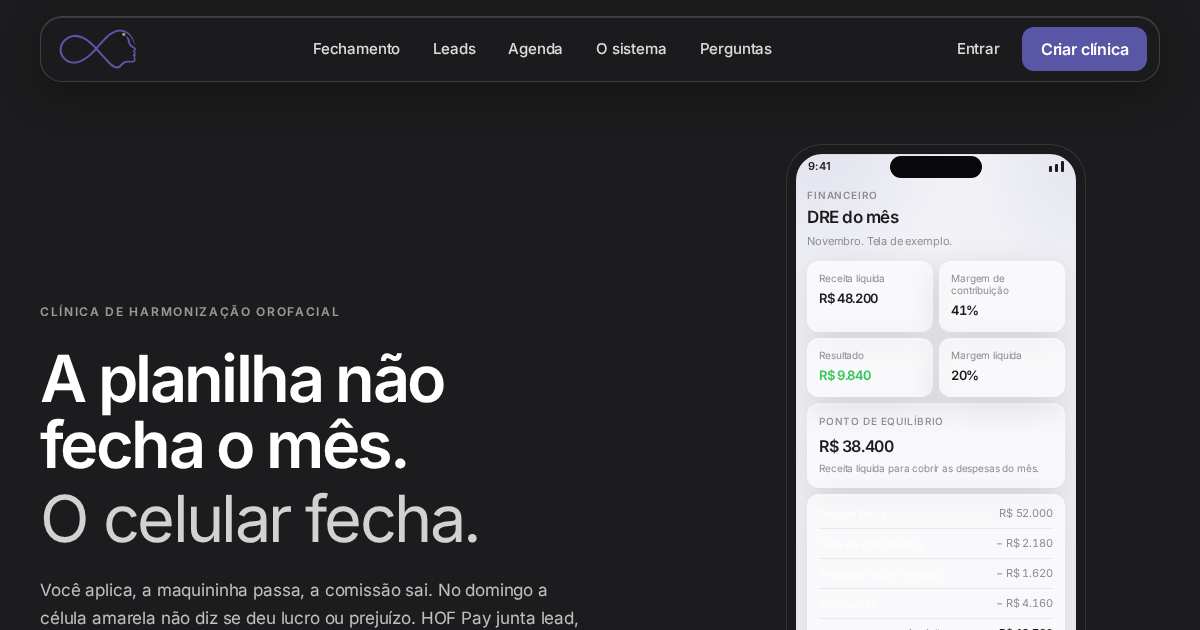
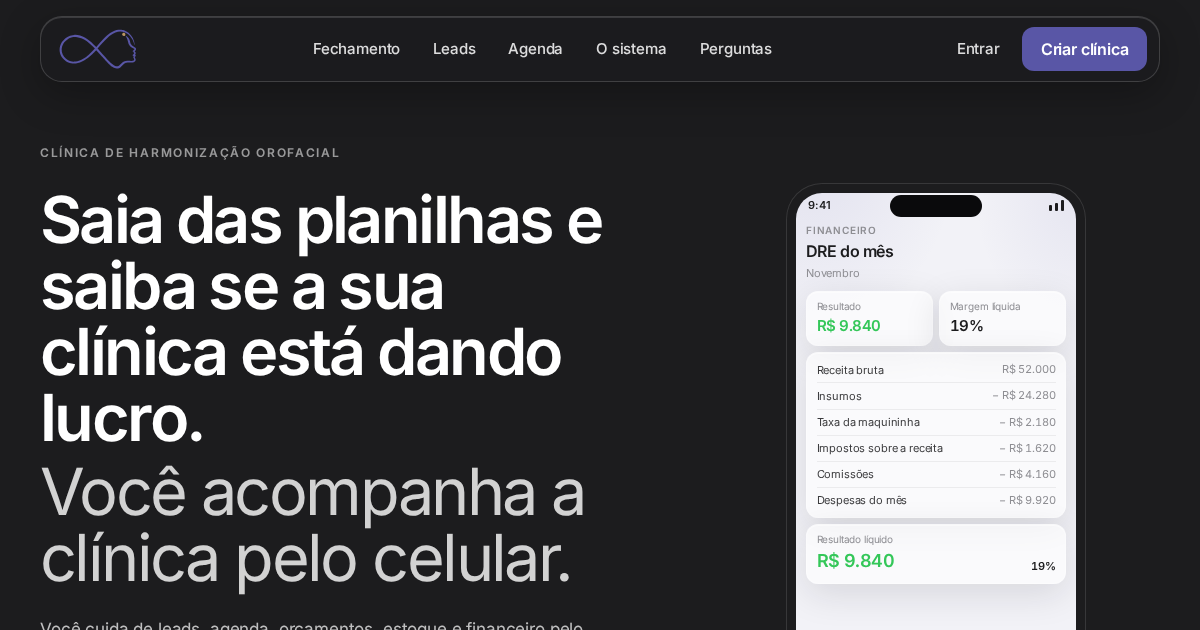
Rewrite marketing copy in a direct clinic-owner voice.
Keep the same layout and components. Replace the poetic headlines with clear benefit-first Brazilian Portuguese, and update SEO, FAQ, CTAs, llms.txt and the OG image to match.

diff --git a/apps/site/src/content/site.ts b/apps/site/src/content/site.ts
@@ -9,23 +9,52 @@ import {
 } from '../lib/urls'
 
 export const SITE_URL = `https://${MARKETING_HOST}`
-export const SITE_TITLE = `${APP_NAME}: saia da planilha. A clínica no celular.`
+export const SITE_TITLE = `${APP_NAME}: saia das planilhas e saiba se a clínica está dando lucro`
 export const SITE_ONE_LINER =
-  'HOF Pay é o sistema da clínica de harmonização no celular. Lead, agenda, sessão e o fechamento do mês. Dá para ver se sobrou ou faltou.'
+  'HOF Pay é o sistema da clínica de harmonização no celular: leads, agenda, orçamentos, estoque e financeiro, para você saber se o mês deu lucro ou prejuízo.'
 
 export const HERO_KICKER = 'Clínica de harmonização orofacial'
-export const HERO_TITLE_LEAD = 'A planilha não fecha o mês.'
-export const HERO_TITLE_EMPHASIS = 'O celular fecha.'
+export const HERO_TITLE_LEAD = 'Saia das planilhas e saiba se a sua clínica está dando lucro.'
+export const HERO_TITLE_EMPHASIS = 'Você acompanha a clínica pelo celular.'
 export const HERO_LEAD =
-  'Você aplica, a maquininha passa, a comissão sai. No domingo a célula amarela não diz se deu lucro ou prejuízo. HOF Pay junta lead, agenda e o DRE: margem líquida, no bolso.'
+  'Você cuida de leads, agenda, orçamentos, estoque e financeiro pelo telefone. No fim do mês o DRE mostra o lucro de verdade: receita menos taxa da maquininha, impostos, comissões e despesas.'
 
 export const CTA_REGISTER_LABEL = 'Criar clínica'
 export const CTA_REGISTER_STRONG_LABEL = 'Criar minha clínica'
-export const CTA_LOGIN_LABEL = 'Já tenho acesso'
+export const CTA_LOGIN_LABEL = 'Já tenho conta'
 export const CTA_LOGIN_SHORT_LABEL = 'Entrar'
 
-export const MOCK_CAPTION = 'Tela de exemplo. Números de demonstração, não são de clínica nenhuma.'
-export const HERO_STAGE_CAPTION = 'A planilha vira o DRE no celular.'
+export const MOCK_CAPTION = 'Tela de exemplo. Números de demonstração, não são de uma clínica real.'
+export const HERO_STAGE_CAPTION = 'No lugar da planilha de fechamento, o DRE do mês no celular.'
+
+export const PAIN_KICKER = 'O problema hoje'
+export const PAIN_TITLE = 'Sem o sistema, o fechamento fica na planilha e você não sabe se deu lucro.'
+
+export const FEATURES_KICKER = 'O sistema'
+export const FEATURES_TITLE = 'Lead, agenda, estoque e financeiro no mesmo sistema.'
+
+export const RHYTHM_KICKER = 'Como funciona'
+export const RHYTHM_TITLE = 'Do primeiro WhatsApp até o fechamento do mês.'
+export const RHYTHM_LEAD =
+  'O lead entra no sistema, a sessão é agendada e confirmada, o orçamento vira venda e o estoque só baixa quando o produto é aplicado. No fim do mês o DRE mostra o lucro depois da taxa da maquininha, dos impostos, das comissões e das despesas.'
+
+export const MOBILE_KICKER = 'No celular'
+export const MOBILE_TITLE = 'Use o sistema no celular, não só no computador da recepção.'
+export const MOBILE_COPY =
+  'Confirme a sessão no corredor, cobre o orçamento no balcão e abra o DRE quando quiser. A doutor·a, a recepção e a equipe acompanham no telefone a fila do dia, o paciente que parou de responder e o resultado do mês.'
+
+export const CLINICS_KICKER = 'Para quem aplica'
+export const CLINICS_TITLE = 'Feito para clínica de harmonização, estética e procedimentos injetáveis.'
+
+export const FAQ_KICKER = 'Perguntas'
+export const FAQ_TITLE = 'Perguntas frequentes'
+
+export const ACCESS_KICKER = 'Começar'
+export const ACCESS_TITLE = 'Crie a clínica e acompanhe o lucro do mês.'
+export const ACCESS_COPY =
+  'O cadastro abre o sistema na hora. Você já entra em leads, agenda e no DRE pelo celular.'
+
+export const FOOTER_LUCRO_LABEL = 'Lucro do mês'
 
 export function formatDemoBrl(n: number): string {
   return n.toLocaleString('pt-BR')
@@ -54,18 +83,18 @@ export const DRE_DEMO_MARGEM = Math.round((DRE_DEMO_RESULTADO / DRE_DEMO.receita
 export const painItems = [
   {
     id: 'planilha',
-    title: 'O fechamento no chute',
-    copy: 'Taxa da maquininha, imposto, comissão, aluguel, toxina. Cada um numa aba. No fim do mês ninguém sabe se sobrou ou faltou.',
+    title: 'Na planilha, o lucro do mês não fica claro',
+    copy: 'Taxa da maquininha, imposto, comissão, aluguel e compra de produto ficam em lugares diferentes. No fim do mês fica difícil saber se a clínica lucrou ou teve prejuízo.',
   },
   {
     id: 'leads',
-    title: 'O paciente que sumiu',
-    copy: 'Mandou mensagem no WhatsApp da recepção. Caiu no chat pessoal. Ninguém cobrou, ninguém anotou. Sumiu.',
+    title: 'O paciente interessado some no WhatsApp',
+    copy: 'A mensagem chega no WhatsApp da recepção, cai no celular de alguém e ninguém faz o acompanhamento. O lead esfria sem a equipe perceber.',
   },
   {
     id: 'agenda',
-    title: 'A cadeira vazia',
-    copy: 'A sessão de amanhã está na agenda. Ninguém confirmou. O retorno previsto ficou no caderninho. A cadeira fica vazia.',
+    title: 'Mais faltas porque a sessão não foi confirmada',
+    copy: 'A sessão de amanhã está marcada, mas ninguém enviou a confirmação pelo WhatsApp. O retorno também fica sem cobrança, e o horário vago.',
   },
 ] as const
 
@@ -73,36 +102,36 @@ export const showcases = [
   {
     id: 'lucro',
     kicker: 'Fechamento',
-    title: 'Quanto sobrou. Sem aba amarela.',
-    copy: 'O DRE do mês junta o que a planilha espalha: receita, insumo, taxa da maquininha, imposto, comissão e despesa. Sai margem de contribuição, margem líquida e ponto de equilíbrio.',
+    title: 'Descubra quanto sobrou no fim do mês.',
+    copy: 'O DRE junta receita, insumos, taxa da maquininha, impostos, comissões e despesas. Você vê margem de contribuição, margem líquida e ponto de equilíbrio: o lucro depois de tudo que saiu.',
     points: [
-      'Taxa da maquininha e imposto entram na conta, não ficam de fora',
-      'Comissão, despesa do mês e depreciação de equipamento no mesmo demonstrativo',
-      'Margem de contribuição, margem líquida e ponto de equilíbrio',
+      'A taxa da maquininha e os impostos entram na conta, não ficam de fora.',
+      'Comissão, despesa do mês e depreciação de equipamento aparecem no mesmo demonstrativo.',
+      'Você acompanha margem de contribuição, margem líquida e ponto de equilíbrio.',
     ],
     mock: 'dre' as const,
   },
   {
     id: 'funil',
     kicker: 'Leads',
-    title: 'O paciente que mandou mensagem não some.',
-    copy: 'Do primeiro WhatsApp até a venda: lead criado, abordado, respondeu, agendou, compareceu, orçamento, venda. A recepção cobra pelo WhatsApp. Lead parado aparece no início do dia.',
+    title: 'Nenhum paciente interessado fica sem resposta.',
+    copy: 'Do primeiro WhatsApp até a venda, o lead fica no funil: criado, abordado, respondeu, agendou, compareceu, orçamento e venda. A recepção cobra pelo WhatsApp com a mensagem pronta. Lead parado aparece na fila do dia.',
     points: [
-      'Funil até a venda, por origem e por colaborador',
-      'WhatsApp com a mensagem pronta. O toque fica no histórico',
-      'Fila de acompanhamento quando o lead esfria',
+      'Funil até a venda, com filtro por origem e por colaborador.',
+      'O WhatsApp abre com a mensagem pronta e o contato fica registrado.',
+      'A fila de acompanhamento mostra o lead que parou de responder.',
     ],
     mock: 'funnel' as const,
   },
   {
     id: 'agenda',
     kicker: 'Agenda',
-    title: 'Confirma amanhã no WhatsApp.',
-    copy: 'Sessão, retorno e o dia do profissional de harmonização no celular. A equipe manda a confirmação com a mensagem pronta e marca quem confirmou, quem desmarcou e quem ainda não respondeu.',
+    title: 'Menos faltas com confirmação pelo WhatsApp.',
+    copy: 'A agenda da sessão e do retorno fica no celular. A equipe envia a confirmação com a mensagem já escrita e vê quem confirmou, quem desmarcou e quem ainda não respondeu.',
     points: [
-      'Confirmar amanhã: a conversa do WhatsApp já sai montada',
-      'Retorno a vencer e atrasado, também no WhatsApp',
-      'Agenda da sessão, não um calendário vazio',
+      'Na confirmação de amanhã, a conversa do WhatsApp já sai montada.',
+      'Retorno a vencer ou atrasado também é cobrado pelo WhatsApp.',
+      'A agenda mostra a sessão com paciente e procedimento, não só o horário.',
     ],
     mock: 'agenda' as const,
   },
@@ -112,19 +141,19 @@ export const features = [
   {
     id: 'financeiro',
     title: 'Financeiro',
-    teaser: 'DRE do mês. Taxa da maquininha, imposto, comissão, despesa. Quanto sobrou.',
+    teaser: 'DRE do mês com taxa da maquininha, imposto, comissão e despesa, para ver o lucro real.',
     href: '#lucro',
   },
   {
     id: 'leads',
     title: 'Leads',
-    teaser: 'Funil, cobrança no WhatsApp e o paciente que ia esfriar.',
+    teaser: 'Funil até a venda e cobrança no WhatsApp quando o paciente para de responder.',
     href: '#funil',
   },
   {
     id: 'agenda',
     title: 'Agenda',
-    teaser: 'Sessão, retorno e confirmação pelo WhatsApp.',
+    teaser: 'Sessões, retornos e confirmação pelo WhatsApp.',
     href: '#agenda',
   },
   {
@@ -142,13 +171,13 @@ export const features = [
   {
     id: 'protocolos',
     title: 'Protocolos',
-    teaser: 'Produto, sessão e preço. Sem inventar na poltrona.',
+    teaser: 'Produto, sessão e preço definidos, para não improvisar na hora do atendimento.',
     href: '#produto',
   },
   {
     id: 'estoque',
     title: 'Estoque',
-    teaser: 'A baixa é no tratamento, não na venda. O frasco só sai quando aplica.',
+    teaser: 'A baixa acontece no tratamento, quando o produto é aplicado, não na venda.',
     href: '#produto',
   },
   {
@@ -163,27 +192,27 @@ export const rhythmSteps = [
   {
     n: '01',
     title: 'O lead entra no sistema, não no chat pessoal',
-    copy: 'WhatsApp, prazo e quem é o responsável ficam visíveis. O paciente não some.',
+    copy: 'WhatsApp, prazo e responsável ficam visíveis para a equipe. O paciente não some da fila.',
   },
   {
     n: '02',
-    title: 'Agenda e confirma',
+    title: 'Agende a sessão e confirme pelo WhatsApp',
     copy: 'A sessão entra na agenda. A equipe confirma pelo WhatsApp e vê quem ainda não respondeu.',
   },
   {
     n: '03',
-    title: 'Orça, o paciente aceita, a venda fecha',
-    copy: 'O orçamento sai da venda em rascunho. Com o aceite, a venda fecha. O frasco ainda está na geladeira.',
+    title: 'Envie o orçamento e feche a venda',
+    copy: 'O orçamento começa como rascunho. Quando o paciente aceita, a venda é confirmada. O produto ainda não sai do estoque.',
   },
   {
     n: '04',
-    title: 'Aplica e baixa o que usou',
+    title: 'Aplique e registre o que foi usado',
     copy: 'Na sessão, o profissional de harmonização informa o que foi aplicado. Aí o estoque e o custo fecham.',
   },
   {
     n: '05',
-    title: 'Fecha o mês no DRE',
-    copy: 'Receita, taxa da maquininha, imposto, comissão e despesa no mesmo lugar. Margem líquida: sobrou ou faltou.',
+    title: 'Feche o mês no DRE',
+    copy: 'Receita, taxa da maquininha, imposto, comissão e despesa entram no mesmo demonstrativo. A margem líquida mostra se deu lucro ou prejuízo.',
   },
 ] as const
 
@@ -193,23 +222,23 @@ export const clinicLine =
 export const faqs = [
   {
     id: 'planilha',
-    q: 'Substitui a planilha da clínica?',
-    a: 'Sim. Lead, agenda, paciente, orçamento, venda, estoque, comissão, despesa e o DRE do mês ficam no mesmo sistema, no celular. Não tem aba paralela para “o que realmente fechou”.',
+    q: 'O HOF Pay substitui a planilha da clínica?',
+    a: 'Sim. Lead, agenda, paciente, orçamento, venda, estoque, comissão, despesa e o DRE do mês ficam no mesmo sistema, no celular. Você não precisa de uma planilha paralela para o fechamento.',
   },
   {
     id: 'lucro',
-    q: 'Como eu sei se sobrou ou faltou no mês?',
-    a: 'Pelo DRE. Entram receita, insumo, taxa da maquininha, imposto, comissão, perda de estoque e despesa. O resultado traz margem de contribuição, margem líquida e ponto de equilíbrio.',
+    q: 'Como eu sei se a clínica deu lucro ou prejuízo no mês?',
+    a: 'Pelo DRE. Entram receita, insumo, taxa da maquininha, imposto, comissão, perda de estoque e despesa. O resultado mostra margem de contribuição, margem líquida e ponto de equilíbrio.',
   },
   {
     id: 'celular',
     q: 'Funciona no celular?',
-    a: 'Sim. Foi feito para o celular. A doutor·a, a recepção e a equipe usam no dia: agenda, confirmação, lead e o DRE. Não depende do computador da recepção.',
+    a: 'Sim. Foi feito para o celular. A doutor·a, a recepção e a equipe usam no dia a dia: agenda, confirmação, lead e o DRE. Não depende do computador da recepção.',
   },
   {
     id: 'whatsapp',
     q: 'Como funciona a confirmação no WhatsApp?',
-    a: 'A equipe abre a conversa no WhatsApp com a mensagem pronta: confirmação de consulta, cobrança de lead, retorno do paciente ou orçamento parado. O toque fica registrado no sistema.',
+    a: 'A equipe abre a conversa no WhatsApp com a mensagem pronta: confirmação de consulta, cobrança de lead, retorno do paciente ou orçamento parado. O contato fica registrado no sistema.',
   },
   {
     id: 'estoque',
@@ -219,7 +248,7 @@ export const faqs = [
   {
     id: 'orcamento',
     q: 'Como o orçamento vira venda?',
-    a: 'O orçamento sai da venda em rascunho. Quando o paciente aceita, a venda pode ser confirmada. Agenda e consumo ficam na etapa de tratamento. Orçamento enviado sem resposta entra na fila de cobrança.',
+    a: 'O orçamento começa como rascunho da venda. Quando o paciente aceita, a venda pode ser confirmada. Agenda e consumo ficam na etapa de tratamento. Orçamento enviado sem resposta entra na fila de cobrança.',
   },
   {
     id: 'acesso',
@@ -286,7 +315,7 @@ HOF Pay é um sistema de gestão para clínicas de harmonização orofacial e es
 
 Idioma: pt-BR.
 
-Mensagem central: sair da planilha, tocar a clínica no celular e saber no fechamento do mês se sobrou ou faltou (margem líquida).
+Mensagem central: sair das planilhas, gerenciar a clínica pelo celular e saber, de fato, se o mês deu lucro ou prejuízo (margem líquida no DRE).
 
 ## Para quem
 
@@ -331,13 +360,13 @@ Não há tabela pública de preços neste site. Não invente valores, planos, de
 
 export const llmsFullTxt = `${llmsTxt}
 
-## O ritmo da clínica
+## Como o trabalho da clínica anda no sistema
 
 1. O lead entra no sistema, não no chat pessoal.
-2. Agendar e confirmar no WhatsApp.
-3. Orçar, o paciente aceita, a venda fecha. O produto ainda não sai da geladeira.
+2. Agendar a sessão e confirmar no WhatsApp.
+3. Enviar o orçamento; quando o paciente aceita, a venda é confirmada. O produto ainda não sai do estoque.
 4. No tratamento, informar o que foi aplicado. Aí o estoque e o custo fecham.
-5. Fechar o mês no DRE: margem de contribuição, margem líquida, ponto de equilíbrio.
+5. Fechar o mês no DRE: margem de contribuição, margem líquida e ponto de equilíbrio.
 
 ## Perguntas frequentes
 

diff --git a/apps/site/src/lib/urls.ts b/apps/site/src/lib/urls.ts
@@ -8,4 +8,4 @@ export const APP_HOST = 'app.hofpay.com.br'
 export const API_HOST = 'api.hofpay.com.br'
 
 export const SITE_DESCRIPTION =
-  'HOF Pay tira a clínica de harmonização da planilha. Lead, agenda, sessão e o DRE do mês no celular: taxa da maquininha, comissão, despesa e quanto sobrou.'
+  'HOF Pay é o sistema da clínica de harmonização no celular. Leads, agenda, orçamentos, estoque e financeiro, com o lucro real depois da taxa da maquininha, impostos, comissões e despesas.'
